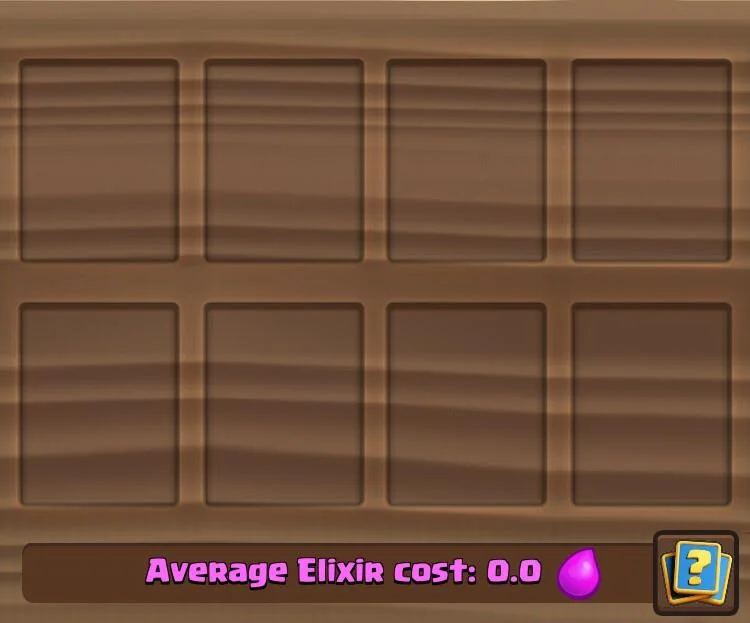
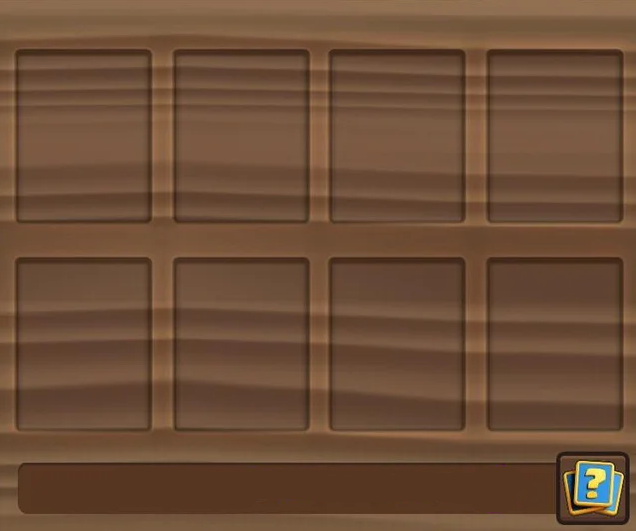
added empty deck and made cards draggable (yeah I copied that js)

diff --git a/www/script.js b/www/script.js
@@ -6,6 +6,41 @@ function addToDeck(name){
     console.log(deck);
 }
 
+dragElement(document.getElementById("card"));
+
+function dragElement(elmnt) {
+    let pos1 = 0, pos2 = 0, pos3 = 0, pos4 = 0;
+    if (document.getElementById(elmnt.id + "header")) {
+        document.getElementById(elmnt.id + "header").onmousedown = dragMouseDown;
+    } else {
+        elmnt.onmousedown = dragMouseDown;
+    }
+
+    function dragMouseDown(e) {
+        e = e || window.event
+        e.preventDefault();
+        pos3 = e.clientX;
+        pos4 = e.clientY;
+        document.onmouseup = closeDragElement;
+        document.onmousemove = elementDrag;
+    }
+
+    function elementDrag(e) {
+        e = e || window.event;
+        e.preventDefault();
+        pos1 = pos3 - e.clientX;
+        pos2 = pos4 - e.clientY;
+        pos3 = e.clientX;
+        pos4 = e.clientY;
+        elmnt.style.top = (elmnt.offsetTop - pos2) + "px";
+        elmnt.style.left = (elmnt.offsetLeft - pos1) + "px";
+    }
+
+    function closeDragElement() {
+        document.onmouseup = null;
+        document.onmousemove = null;
+    }
+}
 
 const get = async path => {
     const promise = new Promise((resolve, reject) => {

diff --git a/www/index.html b/www/index.html
@@ -11,10 +11,14 @@
         <h1>Clash<span style="color:indianred">le</span></h1>
     </div>
 
-
     <div style="text-align: center">
+        <img src="./resources/img/deck_empty.png" width="480" height="390" alt=""/>
+    </div>
+
+    <div id="card">
         <img src="./resources/img/elite_barbarians.png" width="125" height="150" onclick=addToDeck("elite_barbarians") alt=""/>
     </div>
+
 
     <script src="script.js"></script>
 </body>

diff --git a/www/main.css b/www/main.css
@@ -12,6 +12,10 @@
     color: dodgerblue;
 }
 
+#card {
+    position: absolute;
+}
+
 body {
     background: url("./resources/img/background.png");
 }
